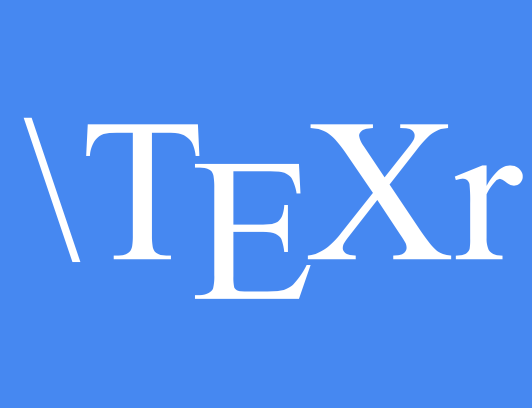
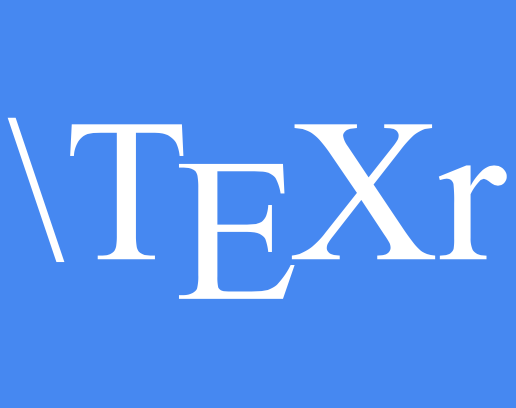
Fixed the colors of the background, made foreground text white for more contrast. We just need to fix the help button, and make the glossary work.

diff --git a/popup.html b/popup.html
@@ -3,15 +3,18 @@
  This page is shown when the extension button is clicked, because the
  "browser_action" field in manifest.json contains the "default_popup" key with
  value "popup.html".
+ Original color: 
+        #2979FF;
  -->
 <html>
   <head>
     <title>Texr</title>
     <style type="text/css">
+      
       body {
         margin: 10px;
         white-space: nowrap;
-        background-color: #2979FF;
+        background-color: rgb(66,133,244);
       }
 
       h1 {
@@ -28,13 +31,14 @@
         display: block;
         width: 60%;
         height: 60%;
-        margin: 20px auto;
+        margin: auto;
       }
 
       #latex {
         padding: 5%;
         font-size: 15px;
         width: 90%;
+        margin:auto;
       }
     </style>
 
@@ -49,26 +53,27 @@
 
   <body>
     <img id="logo" src="icon.png"/>
-    <input id="latex" type="text" name="firstname" placeholder="Enter your equation...">
+    <input id="latex" type="text" style="font-size:18px" name="firstname" placeholder="Enter your equation...">
     <ul id="suggestions">
-      <h1></h1>
-      <h1></h1>
-      <h1></h1>
-      <h1></h1>
-      <h1></h1>
-      <h1></h1>
-      <h1></h1>
-      <h1></h1>
-      <h1></h1>
-      <h1></h1>
+      <h1 style="color:white;font-size:18px;"></h1>
+      <h1 style="color:white;font-size:18px;"></h1>
+      <h1 style="color:white;font-size:18px;"></h1>
+      <h1 style="color:white;font-size:18px;"></h1>
+      <h1 style="color:white;font-size:18px;"></h1>
+      <h1 style="color:white;font-size:18px;"></h1>
+      <h1 style="color:white;font-size:18px;"></h1>
+      <h1 style="color:white;font-size:18px;"></h1>
+      <h1 style="color:white;font-size:18px;"></h1>
+      <h1 style="color:white;font-size:18px;"></h1>
     </ul>
   </body>
-  <input type="button" id="glossary" name="answer" value="Show Glossary" onclick="showGlossary()" />
-  <input type="button" id="copy_to_clipboard" name="answer" value="Copy to Clipboard" onclick="copyToClipboard()" />
-  <input type="button" name="answer" value="Help" onclick="helpButton()" />
-  <div id="glossary_terms"  style="display:none;" class="terms" >
+  <input type="button" id="glossary" style="font-size:18px" value="Show Glossary" onclick="showGlossary()" />
+  <input type="button" id="copy_to_clipboard" style="font-size:18px" value="Copy to Clipboard" onclick="copyToClipboard()" />
+  <input type="button" id="help" style="font-size:18px" value="Help" onclick="helpButton()" />
+  <div id="glossary_terms"  style="color:white;display:none;font-size:18px" class="terms" onclick="clickToReplace">
+    <input type="button" id="click_to_replace" style="font-size:18px" name="answer" value="aleph: &#x2135" onclick="clickToReplace()" />
     <h4> </h4>
-    <input type="text" id="click_to_replace" name="answer" value="aleph: &#x2135" onclick="clickToReplace()" />
+    <h4>aleph: &#x2135</h4>
     <h4>and: &#x2227</h4>
     <h4>complement: &#x2201</h4>
     <h4>complex_set: &#x2102</h4>

diff --git a/popup.js b/popup.js
@@ -63,13 +63,7 @@ function showGlossary() {
       document.getElementById('glossary_terms').style.display = "none";
       document.getElementById('glossary').value = "Show Glossary";
    }
-   //document.getElementById('glossary').style.display = "none";
 }
-
-/*function hideGlossary() {
-   document.getElementById('glossary_terms').style.display = "none";
-   document.getElementById('glossary').style.display = "block";
-}*/
 
 function copyToClipboard() {
   var copyText = document.getElementById("latex");
@@ -87,8 +81,6 @@ function clickToReplace() {
 
   textBox.value = textBox.value + replacement;
 
-  //document.getElementById('glossary_terms').style.display = "none";
-  //document.getElementById('glossary').style.display = "block";
   if (glossary_shown){
       showGlossary();
   }
@@ -233,16 +225,12 @@ function insertLatexChars(currentTextValue) {
 document.addEventListener('DOMContentLoaded', () => {
   const latexInput = document.getElementById("latex");
   const glossaryButton = document.getElementById("glossary");
-  //const hideGlossaryButton = document.getElementById("hide_glossary");
   const copyToClipboardButton = document.getElementById("copy_to_clipboard");
   const clickToReplaceButton = document.getElementById("click_to_replace");
 
   glossaryButton.addEventListener('click', function() {
         showGlossary();
   });
-  /*hideGlossaryButton.addEventListener('click', function() {
-        hideGlossary();
-  });*/
   copyToClipboardButton.addEventListener('click', function() {
         copyToClipboard();
   });
